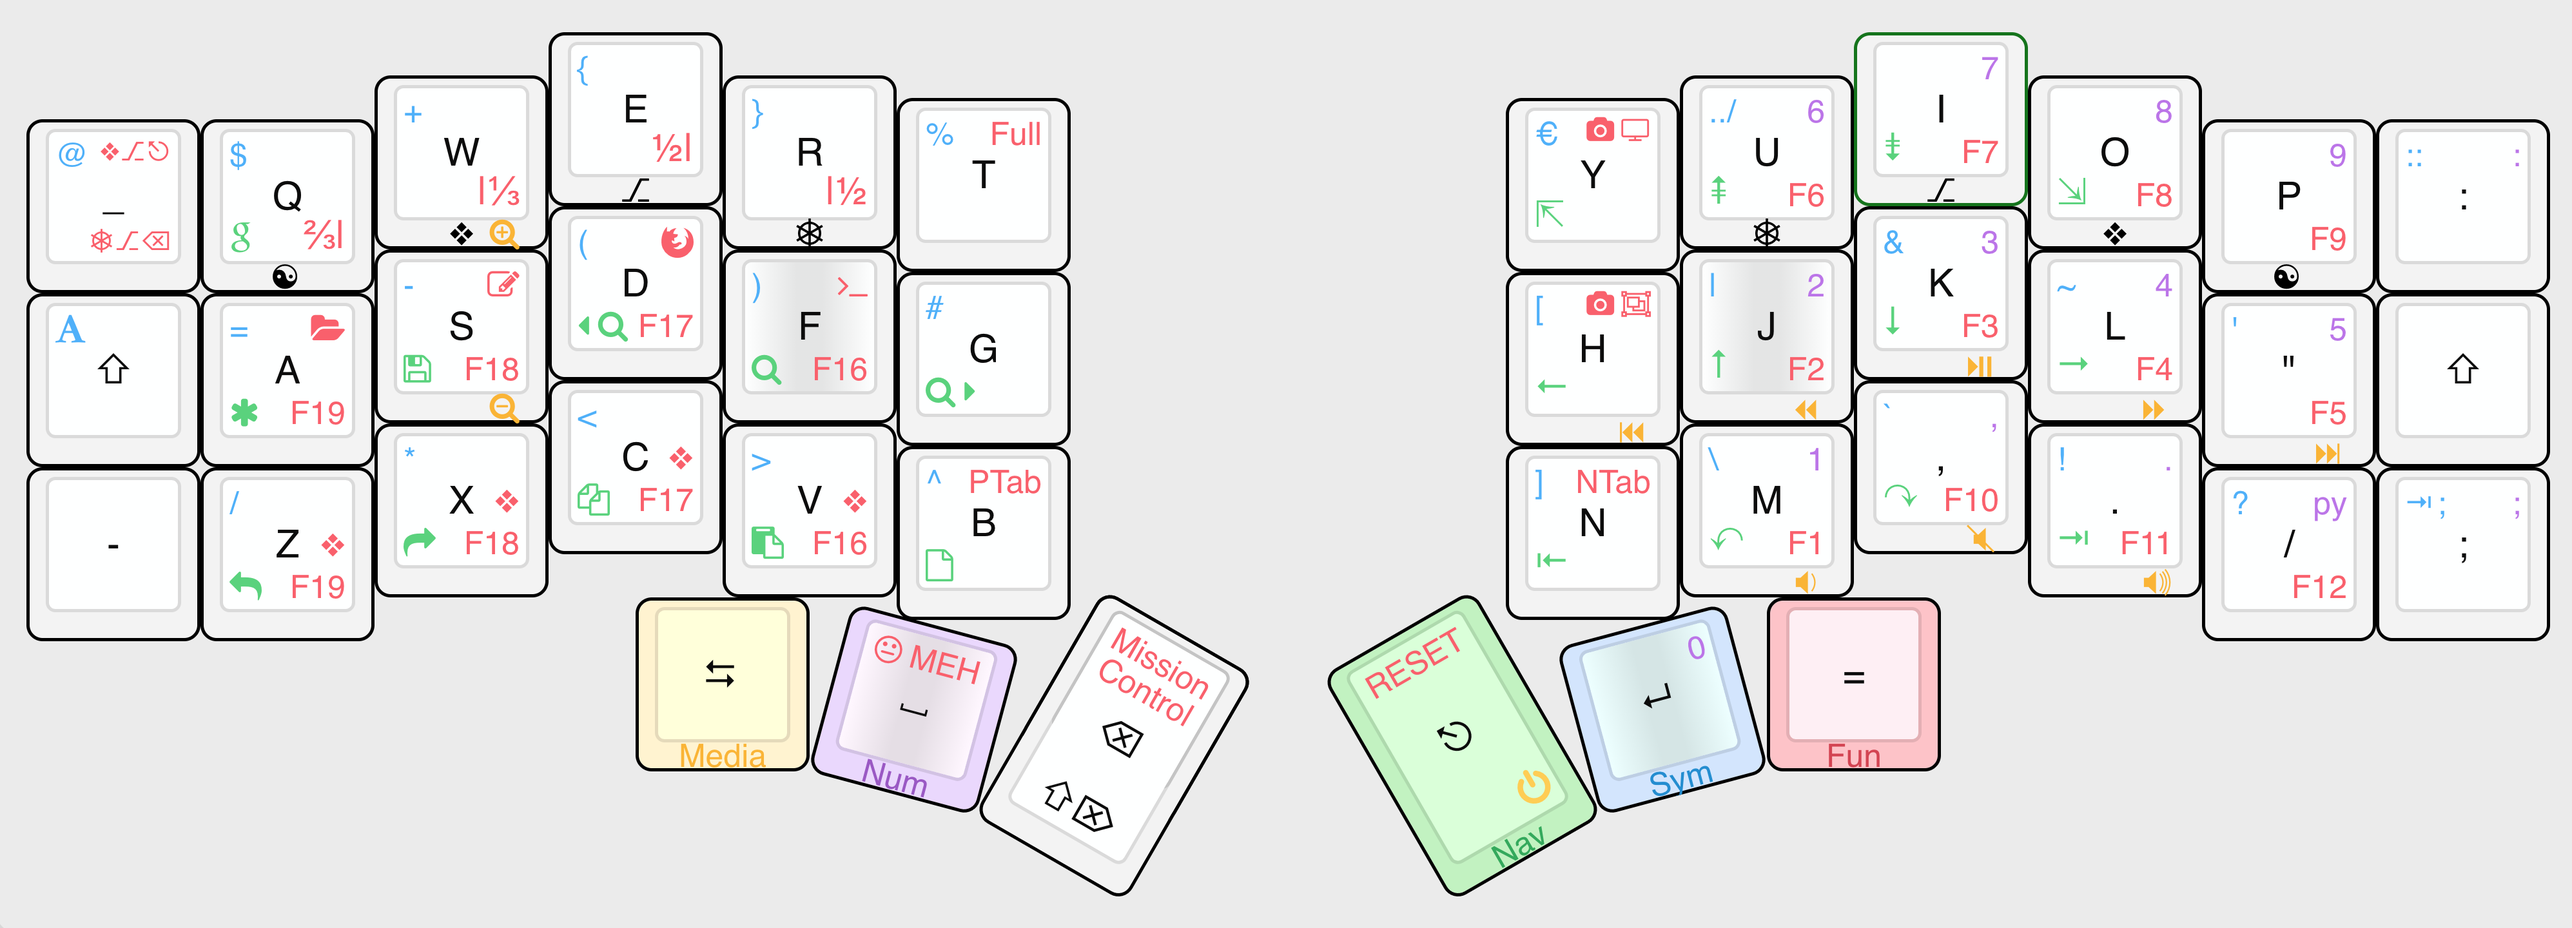
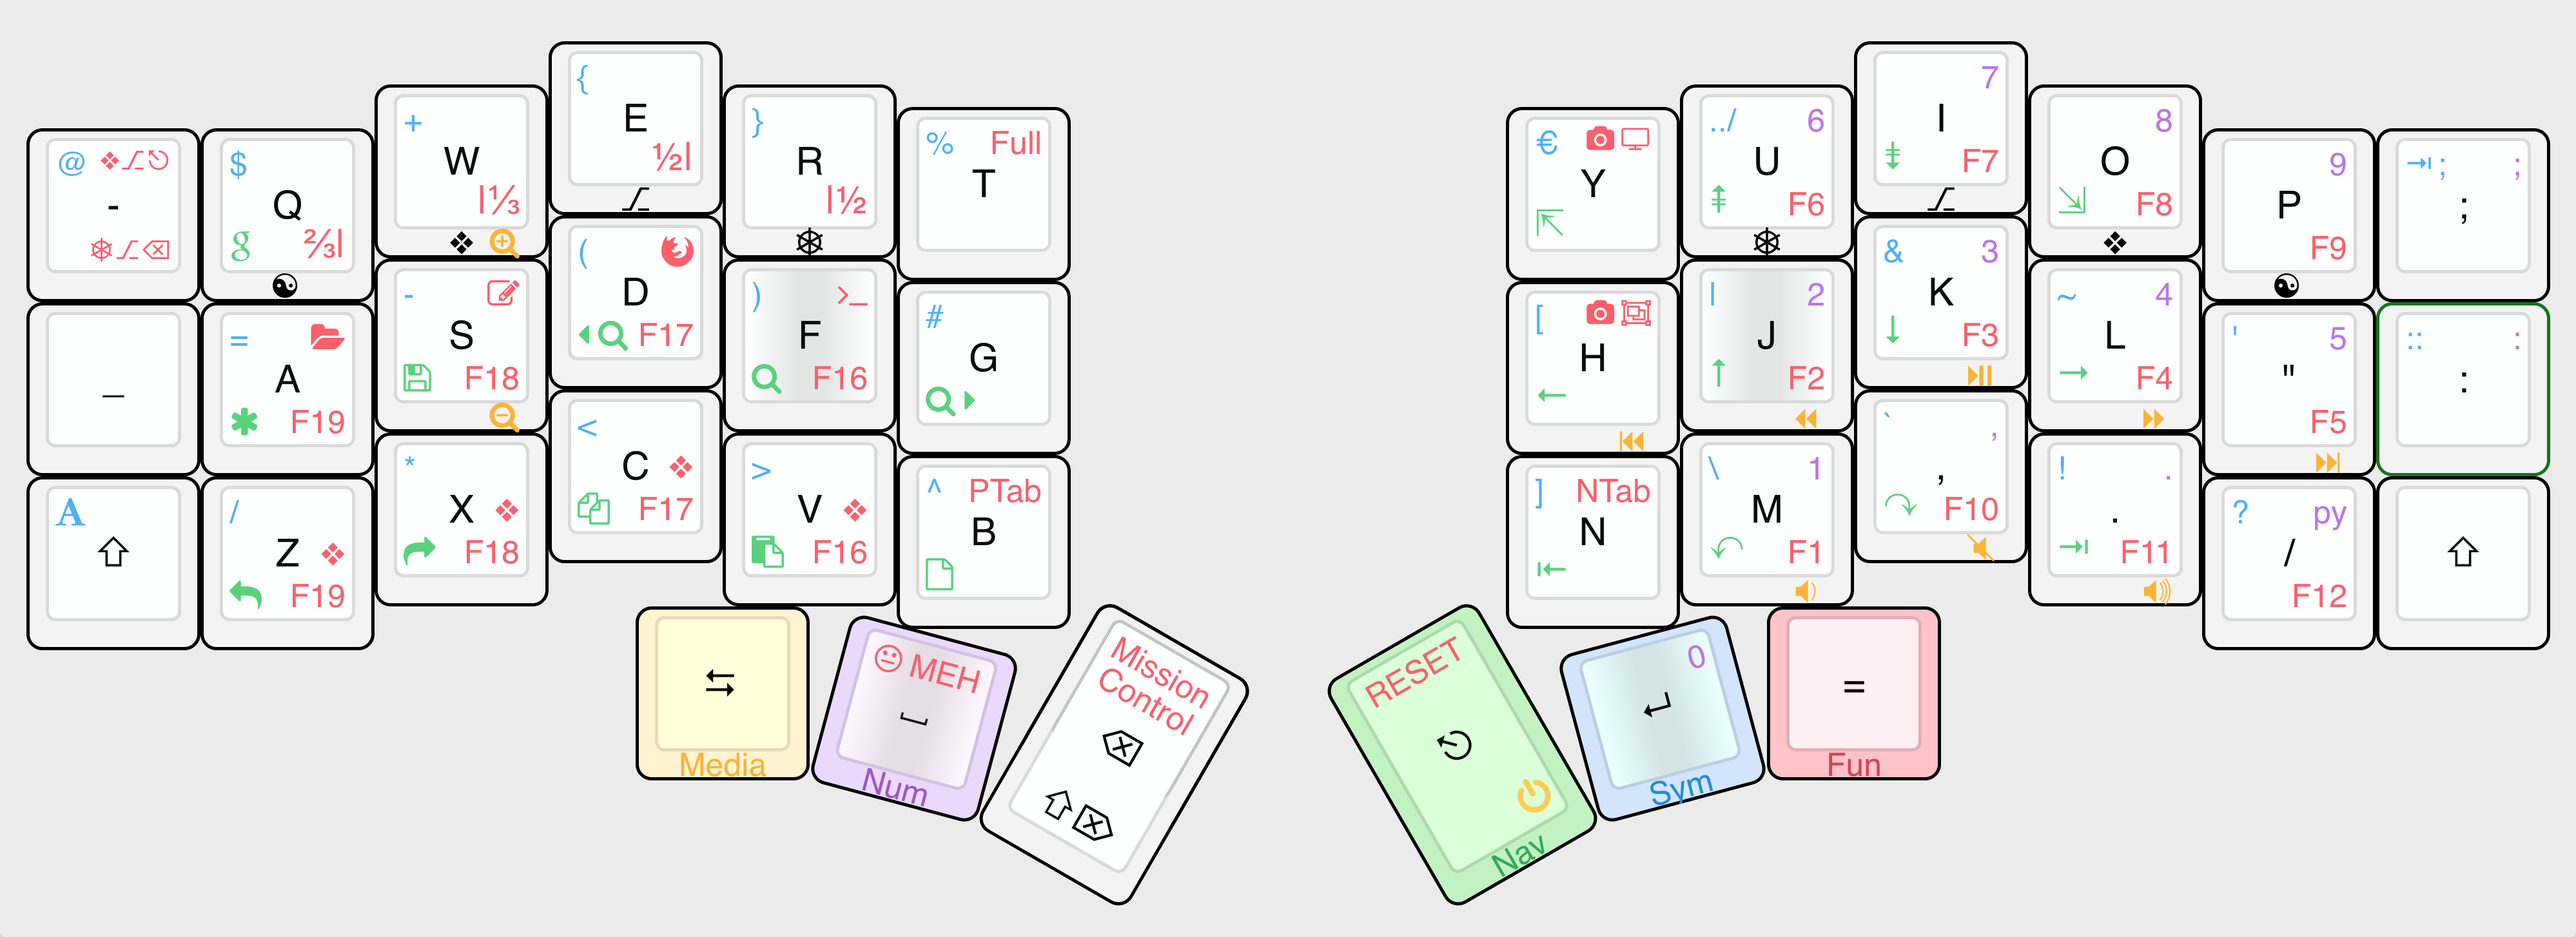
Fixed some issues

diff --git a/keymap.c b/keymap.c
@@ -41,27 +41,27 @@ const uint16_t PROGMEM keymaps[][MATRIX_ROWS][MATRIX_COLS] = {
     [BASE] = MINLAYOUT(
         KC_MUTE,
         KC_ESC,                                                                                                              KC_BSPC,
-        KC_UNDS, MOD_Q,   MOD_W,   MOD_E,   MOD_R,   KC_T,    KC_Y,    MOD_U,   MOD_I,   MOD_O,   MOD_P,   KC_COLN, KC_EQL,  KC_TAB,
-        KC_LSFT, KC_A,    KC_S,    KC_D,    MOD_F,   KC_G,    KC_H,    MOD_J,   KC_K,    KC_L,    MOD_QUO, KC_RSFT, KC_ENT,
-        KC_MINS, KC_Z,    KC_X,    KC_C,    KC_V,    KC_B,    KC_N,    KC_M,    KC_COMM, KC_DOT,  KC_SLSH, KC_SCLN,
-        TO(FUN), TO(MED), TO(NUM),                   KC_SPC,                    NO_IMPL, NO_IMPL, TO(FUN)
+        KC_MINS, MOD_Q,   MOD_W,   MOD_E,   MOD_R,   KC_T,    KC_Y,    MOD_U,   MOD_I,   MOD_O,   MOD_P,   KC_SCLN, KC_EQL,  KC_TAB,
+        MOD_UND, KC_A,    KC_S,    KC_D,    KC_F,    KC_G,    KC_H,    KC_J,    KC_K,    KC_L,    KC_DQUO, KC_COLN, KC_ENT,
+        KC_LSFT, KC_Z,    KC_X,    KC_C,    MOD_V,   KC_B,    KC_N,    MOD_M,   KC_COMM, KC_DOT,  KC_SLSH, KC_RSFT,
+        MO(FUN), MO(MED), MO(NUM),                   KC_SPC,                    NO_IMPL, NO_IMPL, MO(FUN)
     ),
 
     [SYM] = MINLAYOUT(
         _______,
         _______,                                                                                                             _______,
-        KC_AT,   KC_DLR,  KC_PLUS, KC_LCBR, KC_RCBR, KC_PERC, EURO,    UPDIR,   NO_IMPL, NO_IMPL, NO_IMPL, COLON_2, _______, _______,
-        KC_CAPS, KC_EQL,  KC_MINS, KC_LPRN, KC_RPRN, KC_HASH, KC_LBRC, KC_PIPE, KC_AMPR, KC_TILD, KC_QUOT, _______, _______,
-        _______, KC_SLSH, KC_ASTR, KC_LABK, KC_RABK, KC_CIRC, KC_RBRC, KC_BSLS, KC_GRV,  KC_EXLM, KC_QUES, END_SCL,
+        KC_AT,   KC_DLR,  KC_PLUS, KC_LCBR, KC_RCBR, KC_PERC, NO_IMPL, UPDIR,   NO_IMPL, NO_IMPL, NO_IMPL, END_SCL, _______, _______,
+        _______, KC_EQL,  KC_MINS, KC_LPRN, KC_RPRN, KC_HASH, KC_LBRC, KC_PIPE, KC_AMPR, KC_TILD, KC_QUOT, COLON_2, _______,
+        KC_CAPS, KC_SLSH, KC_ASTR, KC_LABK, KC_RABK, KC_CIRC, KC_RBRC, KC_BSLS, KC_GRV,  KC_EXLM, KC_QUES, _______,
         XXXXXXX, XXXXXXX, _______,                   _______,                   XXXXXXX, XXXXXXX, XXXXXXX
     ),
 
     [NUM] = MINLAYOUT(
         _______,
         _______,                                                                                                             _______,
-        KC_UNDS, KC_DLR,  KC_PLUS, KC_LCBR, KC_RCBR, KC_PERC, EURO,    KC_6,    KC_7,    KC_8,    KC_9,    _______, _______, _______,
+        KC_MINS, KC_DLR,  KC_PLUS, KC_LCBR, KC_RCBR, KC_PERC, NO_IMPL, KC_6,    KC_7,    KC_8,    KC_9,    _______, _______, _______,
         _______, KC_EQL,  KC_MINS, KC_LPRN, KC_RPRN, KC_HASH, KC_LBRC, KC_2,    KC_3,    KC_4,    KC_5,    _______, _______,
-        KC_MINS, KC_SLSH, KC_ASTR, KC_LABK, KC_RABK, KC_CIRC, KC_RBRC, KC_1,    _______, _______, PY_CALC, _______,
+        _______, KC_SLSH, KC_ASTR, KC_LABK, KC_RABK, KC_CIRC, KC_RBRC, KC_1,    _______, _______, PY_CALC, _______,
         XXXXXXX, XXXXXXX, _______,                   KC_0,                      XXXXXXX, XXXXXXX, XXXXXXX
     ),
 
@@ -76,7 +76,7 @@ const uint16_t PROGMEM keymaps[][MATRIX_ROWS][MATRIX_COLS] = {
 
     [FUN] = MINLAYOUT(
         _______,
-        _______,                                                                                                             SEE_ALL,
+        QK_BOOT,                                                                                                             SEE_ALL,
         CA_DEL,  MV_2TL,  MV_1TR,  MV_L,    MV_R,    MV_FULL, CAP_SCN, KC_F6,   KC_F7,   KC_F8,   KC_F9,   NO_IMPL, NO_IMPL, NO_IMPL,
         NO_IMPL, KC_F19,  KC_F18,  KC_F17,  KC_F16,  NO_IMPL, CAP_SEL, KC_F2,   KC_F3,   KC_F4,   KC_F5,   NO_IMPL, NO_IMPL,
         _______, NO_IMPL, NO_IMPL, NO_IMPL, NO_IMPL, MV_PTAB, MV_NTAB, KC_F1,   KC_F10,  KC_F11,  KC_F12,  _______,
@@ -112,18 +112,28 @@ uint8_t NUM_CUSTOM_SHIFT_KEYS = sizeof(custom_shift_keys) / sizeof(custom_shift_
 #define X_REGISTER16(kMac, kWin) register_code16((IS_MACOS) ? kMac : kWin); return false;
 #define X_UNREGISTER16(kMac, kWin) unregister_code16((IS_MACOS) ? kMac : kWin); return false;
 
+uint16_t get_tapping_term(uint16_t keycode, keyrecord_t *record) {
+    switch (keycode) {
+        case MOD_V: return 170;
+        case MOD_M: return 170;
+        default: return TAPPING_TERM;
+    }
+}
+
 bool process_record_user(uint16_t keycode, keyrecord_t* record) {
     if (!process_custom_shift_keys(keycode, record)) { return false; }
 
+    // Mod tap intercepts for non-basic keycodes and cross-OS modifiers (CMD and CTRL)
     switch (keycode) {
-        // Mod tap intercepts for non-basic keycodes and cross-OS modifiers (CMD and CTRL)
         case MOD_Q:
             if (record->tap.count && record->event.pressed) {
                 tap_code16(KC_Q);
                 return false;
             } else if (record->event.pressed) {
+                // While holding down key keep modifier registered.
                 X_REGISTER16(KC_LCMD, KC_LCTL);
             } else {
+                // Unregister modifier after stopping key press.
                 X_UNREGISTER16(KC_LCMD, KC_LCTL);
             }
             break;
@@ -132,14 +142,16 @@ bool process_record_user(uint16_t keycode, keyrecord_t* record) {
                 tap_code16(KC_P);
                 return false;
             } else if (record->event.pressed) {
+                // While holding down key keep modifier registered.
                 X_REGISTER16(KC_LCMD, KC_LCTL);
             } else {
+                // Unregister modifier after stopping key press.
                 X_UNREGISTER16(KC_LCMD, KC_LCTL);
             }
             break;
-        case MOD_QUO:
+        case MOD_UND:
             if (record->tap.count && record->event.pressed) {
-                tap_code16(KC_DQUO);
+                tap_code16(KC_UNDERSCORE);
                 return false;
             }
             break;
@@ -149,7 +161,6 @@ bool process_record_user(uint16_t keycode, keyrecord_t* record) {
         switch (keycode) {
             case UPDIR: SEND_STRING("../"); return false;
             case COLON_2: SEND_STRING("::"); return false;
-            case EURO: SEND_STRING("€"); return false;
             case END_SCL: tap_code16_delay(KC_END, 10); SEND_STRING(";"); return false;
             case VI_SAVE: tap_code16_delay(KC_ESCAPE, 10); SEND_STRING(":w"); return false;
 
@@ -158,8 +169,8 @@ bool process_record_user(uint16_t keycode, keyrecord_t* record) {
 
             case WORD_L: X_TAP16(LOPT(KC_LEFT), LCTL(KC_LEFT));
             case WORD_R: X_TAP16(LOPT(KC_RIGHT), LCTL(KC_RIGHT));
-            case PG_TOP: X_TAP16(LCMD(KC_DOWN), LCTL(KC_END));
-            case PG_END: X_TAP16(LCMD(KC_Z), LCTL(KC_Z));
+            case PG_TOP: X_TAP16(LCMD(KC_UP), LCTL(KC_HOME));
+            case PG_END: X_TAP16(LCMD(KC_DOWN), LCTL(KC_END));
             case MY_GOOG: NO_IMPL_CASE("MY_GOOG (Search Selected)");
             case MY_PTOP: X_TAP16(LCMD(KC_UP), LCTL(KC_HOME));
             case MY_UNDO: X_TAP16(LCMD(KC_Z), LCTL(KC_Z));

diff --git a/alias.h b/alias.h
@@ -14,7 +14,6 @@ enum custom_keycodes {
 
     UPDIR,      // ../
     COLON_2,    // ::
-    EURO,
     END_SCL,    // end semi-colon
     VI_SAVE,    // :w
 
@@ -66,11 +65,11 @@ enum custom_keycodes {
 #define MOD_W LGUI_T(KC_W)
 #define MOD_E LALT_T(KC_E)
 #define MOD_R LCTL_T(KC_R)
-#define MOD_F LT(SYM, KC_F)
+#define MOD_V LT(SYM, KC_V)
 
 #define MOD_P LCMD_T(KC_P)
 #define MOD_U LCTL_T(KC_U)
 #define MOD_I LALT_T(KC_I)
 #define MOD_O LGUI_T(KC_O)
-#define MOD_J LT(SYM, KC_J)
-#define MOD_QUO LT(NAV, KC_DQUO)
+#define MOD_M LT(SYM, KC_M)
+#define MOD_UND LT(NAV, KC_UNDERSCORE)

diff --git a/README.md b/README.md
@@ -8,6 +8,10 @@ that I know will work for the corne, and so that I can confidently go ahead and
 build one without the risk of me regretting ever building it (in the event that
 it is unusable for me).
 
+Note: The screenshots of the layouts may not be up to date, use the
+`<map>.json` file and import it into http://www.keyboard-layout-editor.com
+to see a more up to date layout.
+
 So I initially designed a layout that I believe will work well for me on the
 corne, and then I mapped that layout onto the GMMK Pro, here are the layouts.
 
